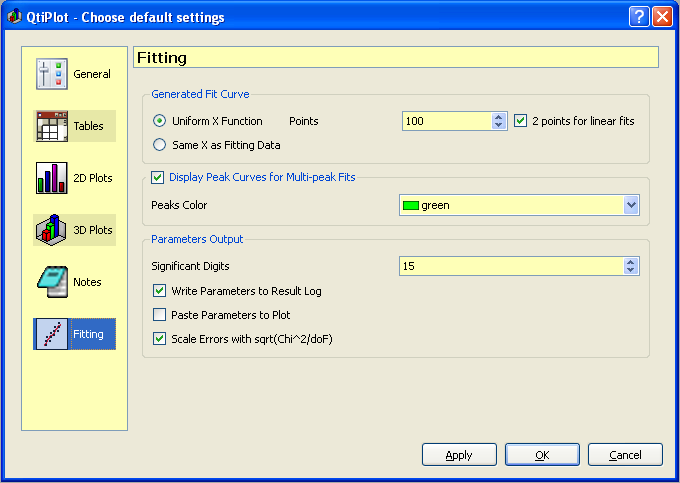
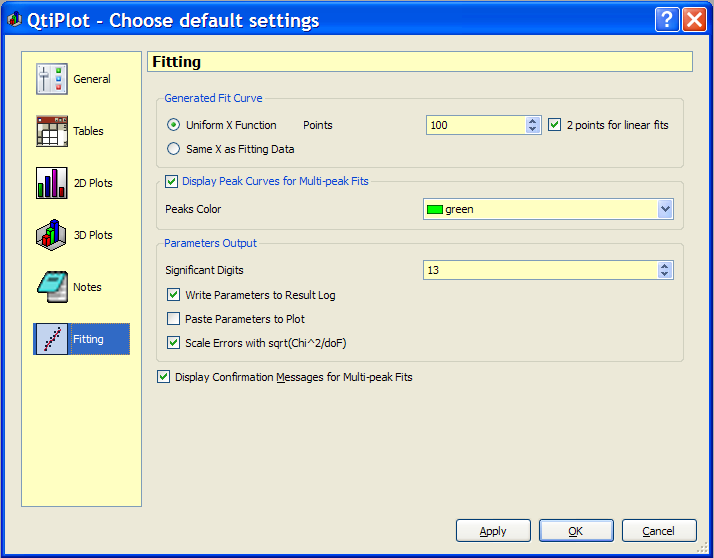
- Added the possibility to disable the confirmation messages during multi-peak fits. - Several bug fixes and improvements for data analysis of Xfy curves.
git-svn-id: http://svn.berlios.de/svnroot/repos/qtiplot/trunk@1582 5a6a7de5-fb12-0410-b871-c33778c25c60

Changed region(s): [[0.0, 0.0, 1.0, 1.0], [0.5868, 0.1863, 0.9574, 0.2795], [0.9265, 0.7143, 0.9574, 0.7453]]

diff --git a/qtiplot/src/analysis/MultiPeakFit.cpp b/qtiplot/src/analysis/MultiPeakFit.cpp
@@ -236,6 +236,10 @@ void MultiPeakFit::insertPeakFunctionCurve(int peak)
 		int p = 3*peak + j;
 		c->setConstant(d_param_names[p], d_results[p]);
 	}
+	if (d_curve){
+		c->setCurveType(d_curve->curveType());
+		c->setAxis(d_curve->xAxis(), d_curve->yAxis());
+	}
 	c->loadData(d_points);
 
 	d_output_graph->insertPlotItem(c, Graph::Line);
@@ -279,11 +283,17 @@ void MultiPeakFit::generateFitCurve()
 			return;
 		}
 
-		#ifdef Q_CC_MSVC
-			QVarLengthArray<double> X(d_points), Y(d_points);
-		#else
-			double X[d_points], Y[d_points];
-		#endif
+		double *X = (double *)malloc(d_points*sizeof(double));
+		if (!X){
+			memoryErrorMessage();
+			return;
+		}
+		double *Y = (double *)malloc(d_points*sizeof(double));
+		if (!Y){
+			memoryErrorMessage();
+			free(X);
+			return;
+		}
 
 		QString tableName = app->generateUniqueName(tr("Fit"));
 		QString dataSet;
@@ -333,15 +343,20 @@ void MultiPeakFit::generateFitCurve()
 
 			label = tableName + "_2";
 			DataCurve *c = new DataCurve(d_result_table, tableName + "_1", label);
+			if (d_curve){
+				c->setCurveType(d_curve->curveType());
+				c->setAxis(d_curve->xAxis(), d_curve->yAxis());
+			}
 			if (d_peaks > 1)
 				c->setPen(QPen(ColorBox::color(d_curveColorIndex), 2));
 			else
 				c->setPen(QPen(ColorBox::color(d_curveColorIndex), 1));
-#ifdef Q_CC_MSVC
-			c->setData(X.data(), Y.data(), d_points);
-#else
-			c->setData(X, Y, d_points);
-#endif
+
+			if (c->curveType() == QwtPlotCurve::Xfy)
+				c->setData(Y, X, d_points);
+			else
+				c->setData(X, Y, d_points);
+
 			d_output_graph->insertPlotItem(c, Graph::Line);
 			d_output_graph->addFitCurve(c);
 
@@ -353,11 +368,17 @@ void MultiPeakFit::generateFitCurve()
 					label = tableName + "_" + tr("peak") + QString::number(i+1);
 					c = new DataCurve(d_result_table, tableName + "_1", label);
 					c->setPen(QPen(ColorBox::color(d_peaks_color), 1));
-#ifdef Q_CC_MSVC
-					c->setData(X.data(), Y.data(), d_points);
-#else
-					c->setData(X, Y, d_points);
-#endif
+
+					if (d_curve){
+						c->setCurveType(d_curve->curveType());
+						c->setAxis(d_curve->xAxis(), d_curve->yAxis());
+					}
+
+					if (c->curveType() == QwtPlotCurve::Xfy)
+						c->setData(Y, X, d_points);
+					else
+						c->setData(X, Y, d_points);
+
 					d_output_graph->insertPlotItem(c, Graph::Line);
 					d_output_graph->addFitCurve(c);
 				}
@@ -365,6 +386,8 @@ void MultiPeakFit::generateFitCurve()
 			d_output_graph->replot();
 		}
 		gsl_matrix_free(m);
+		free(X);
+		free(Y);
 	}
 }
 

diff --git a/qtiplot/src/plot2D/MultiPeakFitTool.cpp b/qtiplot/src/plot2D/MultiPeakFitTool.cpp
@@ -54,7 +54,8 @@ MultiPeakFitTool::MultiPeakFitTool(Graph *graph, ApplicationWindow *app, MultiPe
 	d_graph->canvas()->setCursor(QCursor(QPixmap(":/cursor.png"), -1, -1));
 
 	QString msg = tr("Move cursor and click to select a point and double-click/press 'Enter' to set the position of a peak!");
-	QMessageBox::information(app, app->objectName(), msg);
+	if (app->d_multi_peak_messages)
+		QMessageBox::information(app, app->objectName(), msg);
 	emit statusText(msg);
 
 	connect(d_picker_tool, SIGNAL(selected(QwtPlotCurve*,int)), this, SLOT(selectPeak(QwtPlotCurve*,int)));
@@ -81,13 +82,21 @@ void MultiPeakFitTool::selectPeak(QwtPlotCurve *curve, int point_index)
 		return;
 	d_curve = curve;
 
-	d_fit->setInitialGuess(3*d_selected_peaks, curve->y(point_index));
-	d_fit->setInitialGuess(3*d_selected_peaks+1, curve->x(point_index));
-
 	QwtPlotMarker *m = new QwtPlotMarker();
-	m->setLineStyle(QwtPlotMarker::VLine);
+	m->setXAxis(curve->xAxis());
 	m->setLinePen(QPen(Qt::green, 2, Qt::DashLine));
-	m->setXValue(curve->x(point_index));
+
+	if (curve->curveType() == QwtPlotCurve::Xfy){
+		m->setLineStyle(QwtPlotMarker::HLine);
+		d_fit->setInitialGuess(3*d_selected_peaks, curve->x(point_index));
+		d_fit->setInitialGuess(3*d_selected_peaks+1, curve->y(point_index));
+	} else {
+		m->setLineStyle(QwtPlotMarker::VLine);
+		d_fit->setInitialGuess(3*d_selected_peaks, curve->y(point_index));
+		d_fit->setInitialGuess(3*d_selected_peaks+1, curve->x(point_index));
+	}
+
+	m->setValue(curve->x(point_index), curve->y(point_index));
 	d_graph->insertMarker(m);
 	d_lines.append(m);
 	d_graph->replot();
@@ -98,7 +107,7 @@ void MultiPeakFitTool::selectPeak(QwtPlotCurve *curve, int point_index)
 	else {
 		QString msg = tr("Peak %1 selected! Click to select a point and double-click/press 'Enter' to set the position of the next peak!").arg(QString::number(d_selected_peaks));
 		ApplicationWindow *app = d_picker_tool->applicationWindow();
-		if (app){
+		if (app && app->d_multi_peak_messages){
 			d_graph->canvas()->releaseMouse();
 			QMessageBox::information(app, app->objectName(), msg);
 			d_graph->canvas()->grabMouse();

diff --git a/qtiplot/src/core/ConfigDialog.cpp b/qtiplot/src/core/ConfigDialog.cpp
@@ -956,10 +956,14 @@ void ConfigDialog::initFittingPage()
 	fitParamsLayout->addWidget(scaleErrorsBox, 3, 0);
 	scaleErrorsBox->setChecked(app->fit_scale_errors);
 
+	boxMultiPeakMsgs = new QCheckBox();
+	boxMultiPeakMsgs->setChecked(app->d_multi_peak_messages);
+
 	QVBoxLayout* fitPageLayout = new QVBoxLayout(fitPage);
 	fitPageLayout->addWidget(groupBoxFittingCurve);
 	fitPageLayout->addWidget(groupBoxMultiPeak);
 	fitPageLayout->addWidget(groupBoxFitParameters);
+	fitPageLayout->addWidget(boxMultiPeakMsgs);
 	fitPageLayout->addStretch();
 
 	connect(samePointsBtn, SIGNAL(toggled(bool)), this, SLOT(showPointsBox(bool)));
@@ -1630,6 +1634,8 @@ void ConfigDialog::languageChange()
 	groupBoxMultiPeak->setTitle(tr("Display Peak Curves for Multi-peak Fits"));
 	lblPeaksColor->setText(tr("Peaks Color"));
 
+	boxMultiPeakMsgs->setText(tr("Display Confirmation &Messages for Multi-peak Fits"));
+
 	updateMenuList();
 }
 
@@ -1909,6 +1915,7 @@ void ConfigDialog::apply()
 	app->peakCurvesColor = boxPeaksColor->currentIndex();
 	app->fit_scale_errors = scaleErrorsBox->isChecked();
 	app->d_2_linear_fit_points = linearFit2PointsBox->isChecked();
+	app->d_multi_peak_messages = boxMultiPeakMsgs->isChecked();
 	app->saveSettings();
 
 	updateMenuList();

diff --git a/qtiplot/src/core/ApplicationWindow.cpp b/qtiplot/src/core/ApplicationWindow.cpp
@@ -630,6 +630,7 @@ void ApplicationWindow::initGlobalConstants()
 	peakCurvesColor = 2;
 	fit_scale_errors = true;
 	d_2_linear_fit_points = true;
+	d_multi_peak_messages = true;
 
 	columnSeparator = "\t";
 	ignoredLines = 0;
@@ -5185,6 +5186,7 @@ void ApplicationWindow::readSettings()
 	peakCurvesColor = settings.value("/PeaksColor", 2).toInt();//green color
 	fit_scale_errors = settings.value("/ScaleErrors", true).toBool();
 	d_2_linear_fit_points = settings.value("/TwoPointsLinearFit", true).toBool();
+	d_multi_peak_messages = settings.value("/MultiPeakToolMsg", d_multi_peak_messages).toBool();
 	settings.endGroup(); // Fitting
 
 	settings.beginGroup("/ImportASCII");
@@ -5590,6 +5592,7 @@ void ApplicationWindow::saveSettings()
 	settings.setValue("/PeaksColor", peakCurvesColor);
 	settings.setValue("/ScaleErrors", fit_scale_errors);
 	settings.setValue("/TwoPointsLinearFit", d_2_linear_fit_points);
+	settings.setValue("/MultiPeakToolMsg", d_multi_peak_messages);
 	settings.endGroup(); // Fitting
 
 	settings.beginGroup("/ImportASCII");

diff --git a/qtiplot/src/plot2D/PlotCurve.cpp b/qtiplot/src/plot2D/PlotCurve.cpp
@@ -119,6 +119,7 @@ QString PlotCurve::saveCurveLayout()
 	}
 	s += "<xAxis>" + QString::number(xAxis()) + "</xAxis>\n";
 	s += "<yAxis>" + QString::number(yAxis()) + "</yAxis>\n";
+	s += "<CurveType>" + QString::number(curveType()) + "</CurveType>\n";
 	s += "<Visible>" + QString::number(isVisible()) + "</Visible>\n";
 	return s;
 }
@@ -189,6 +190,8 @@ void PlotCurve::restoreCurveLayout(const QStringList& lst)
 			setXAxis(s.remove("<xAxis>").remove("</xAxis>").toInt());
 		else if (s.contains("<yAxis>"))
 			setYAxis(s.remove("<yAxis>").remove("</yAxis>").toInt());
+		else if (s.contains("<CurveType>"))
+			setCurveType((QwtPlotCurve::CurveType)s.remove("<CurveType>").remove("</CurveType>").toInt());
 		else if (s.contains("<Visible>"))
 			setVisible(s.remove("<Visible>").remove("</Visible>").toInt());
 	}

diff --git a/qtiplot/src/plot2D/dialogs/PlotDialog.cpp b/qtiplot/src/plot2D/dialogs/PlotDialog.cpp
@@ -795,6 +795,7 @@ void PlotDialog::initAxesPage()
 	boxXAxis->addItem(tr("Bottom"));
 	boxXAxis->addItem(tr("Top"));
 	gl->addWidget(boxXAxis, 0, 1);
+
 	gl->addWidget(new QLabel( tr( "y Axis" )), 1, 0);
 	boxYAxis = new QComboBox();
 	boxYAxis->setEditable(false);
@@ -2549,8 +2550,8 @@ bool PlotDialog::acceptParams()
   	   sp->setColorBarWidth(colorScaleWidthBox->value());
 
   	   //Update axes page
-  	   boxXAxis->setCurrentItem(sp->xAxis()-2);
-  	   boxYAxis->setCurrentItem(sp->yAxis());
+	   boxXAxis->setCurrentIndex(sp->xAxis() - 2);
+	   boxYAxis->setCurrentIndex(sp->yAxis());
   	} else if (privateTabWidget->currentPage() == contourLinesPage){
   		Spectrogram *sp = (Spectrogram *)plotItem;
   	    if (!sp || sp->rtti() != QwtPlotItem::Rtti_PlotSpectrogram)

diff --git a/qtiplot/src/plot2D/ScreenPickerTool.cpp b/qtiplot/src/plot2D/ScreenPickerTool.cpp
@@ -345,8 +345,18 @@ void ImageProfilesTool::modifiedMatrix(Matrix *m)
 
 ImageProfilesTool* ImageProfilesTool::clone(Graph *g)
 {
+	if (d_hor_table)
+		d_hor_table->blockSignals(true);
+	if (d_ver_table)
+		d_ver_table->blockSignals(true);
+
 	ImageProfilesTool *tool = new ImageProfilesTool(d_app, g, d_matrix, d_hor_table, d_ver_table, d_status_target, d_status_slot);
 	tool->append(QwtDoublePoint(xValue(), yValue()));
+
+	if (d_hor_table)
+		d_hor_table->blockSignals(false);
+	if (d_ver_table)
+		d_ver_table->blockSignals(false);
 	return tool;
 }
 

diff --git a/qtiplot/src/plot2D/dialogs/FunctionDialog.cpp b/qtiplot/src/plot2D/dialogs/FunctionDialog.cpp
@@ -390,8 +390,8 @@ void FunctionDialog::setCurveToModify(Graph *g, int curve)
 		boxFunction->setText(formulas[0]);
 		boxFunction->blockSignals(false);
 
-		boxFrom->setValue(c->startRange());
-		boxTo->setValue(c->endRange());
+		boxFrom->setValue(QMIN(c->startRange(), c->endRange()));
+		boxTo->setValue(QMAX(c->startRange(), c->endRange()));
 		boxPoints->setValue(c->dataSize());
 	} else if (c->functionType() == FunctionCurve::Polar) {
 		boxPolarRadius->blockSignals(true);

diff --git a/qtiplot/src/plot2D/FunctionCurve.cpp b/qtiplot/src/plot2D/FunctionCurve.cpp
@@ -146,15 +146,16 @@ void FunctionCurve::restore(Graph *g, const QStringList& lst)
 	c->setFormulas(formulas);
 	c->setVariable(var);
 	c->setConstants(constants);
-	c->loadData(points, logScale);
 	c->setPlotStyle(style);
 	g->insertCurve(c);
 	g->setCurveStyle(g->curveIndex(c), lineStyle);
 
 	QStringList l;
 	for (line++; line != lst.end(); line++)
-        l << *line;
+		l << *line;
 	c->restoreCurveLayout(l);
+
+	c->loadData(points, logScale);
 	g->updatePlot();
 }
 

diff --git a/qtiplot/src/core/ConfigDialog.h b/qtiplot/src/core/ConfigDialog.h
@@ -241,7 +241,7 @@ private:
 	DoubleSpinBox *boxCanvasHeight, *boxCanvasWidth;
 	QComboBox *unitBox;
 	QLabel *unitBoxLabel, *canvasWidthLabel, *canvasHeightLabel;
-	QCheckBox *keepRatioBox;
+	QCheckBox *keepRatioBox, *boxMultiPeakMsgs;
 
 	double aspect_ratio;
 };

diff --git a/qtiplot/src/plot2D/Graph.cpp b/qtiplot/src/plot2D/Graph.cpp
@@ -4363,7 +4363,7 @@ void Graph::copy(Graph* g)
 
 	d_Douglas_Peuker_tolerance = g->getDouglasPeukerTolerance();
 
-    copyCurves(g);
+	copyCurves(g);
 
 	for (int i=0; i<QwtPlot::axisCnt; i++){
 		QwtScaleWidget *sc = g->axisWidget(i);

diff --git a/qtiplot/src/core/ApplicationWindow.h b/qtiplot/src/core/ApplicationWindow.h
@@ -1184,6 +1184,7 @@ public:
 	bool generateUniformFitPoints;
 	bool generatePeakCurves;
 	int peakCurvesColor;
+	bool d_multi_peak_messages;
 	//! User defined size for the Add/Remove curves dialog
 	QSize d_add_curves_dialog_size;
 
